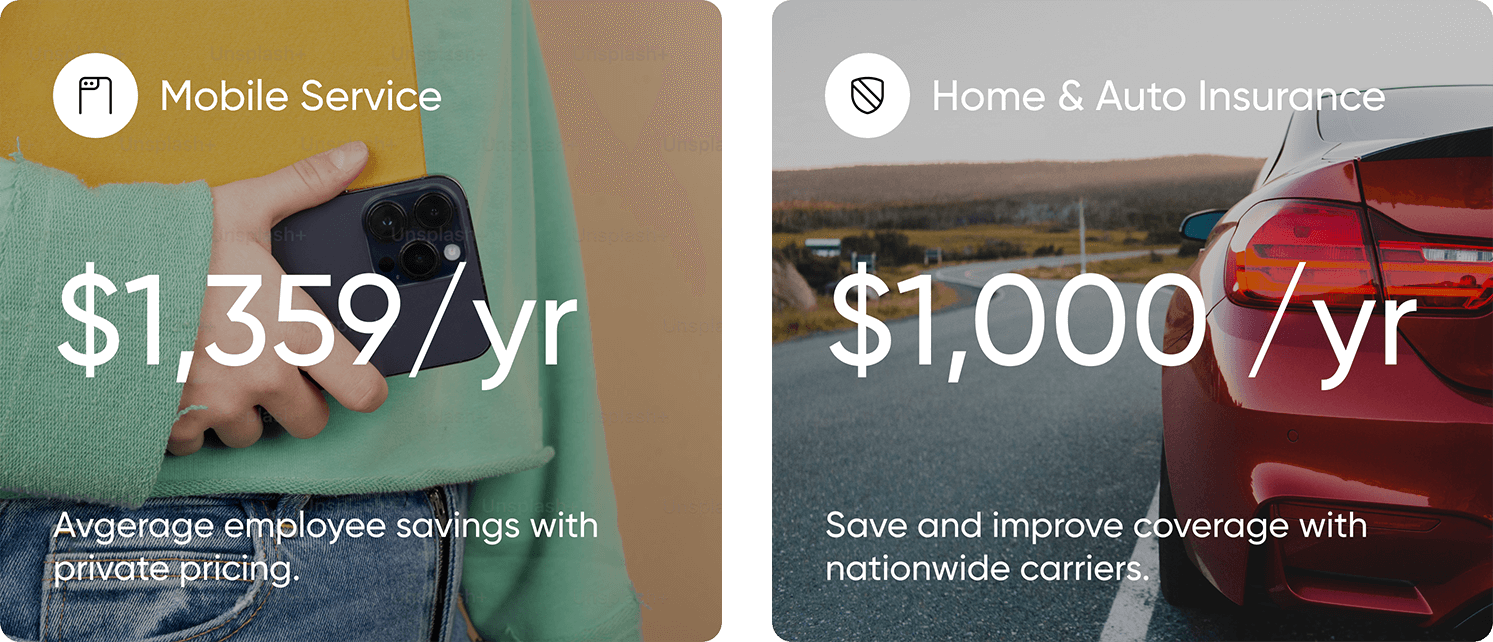
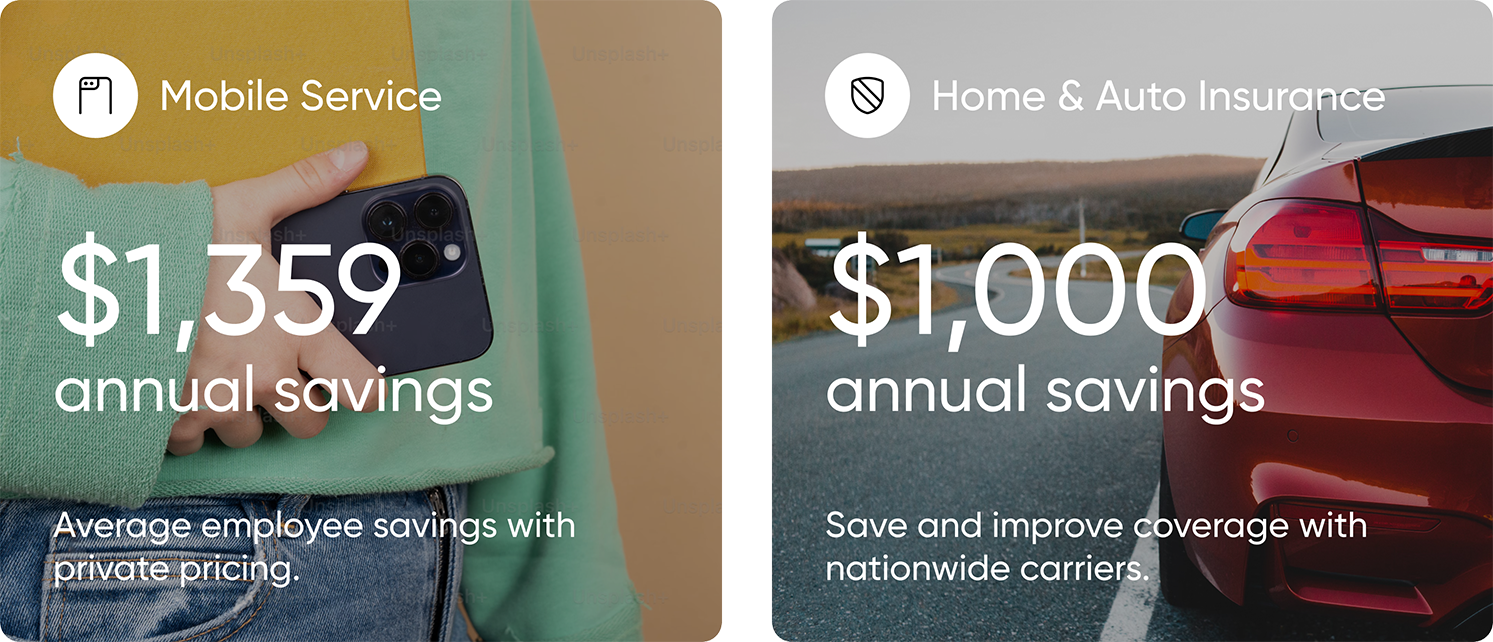
Updated relaunch email

diff --git a/public/templates/relaunch1/formatted.html b/public/templates/relaunch1/formatted.html
@@ -2,9 +2,6 @@
 <div style="max-width: 100%; font-family: Arial, sans-serif; line-height: 1.6; color: #000; padding: 10px 20px 20px;">
 
     <!-- Title -->
-    <h2 style="font-size: 20px; font-weight: bold; margin-bottom: 10px;">
-        Compare and Save Employee Pricing on Phone Plans + Insurance
-    </h2>
 
     <!-- Intro -->
     <p>Hi team,</p>
@@ -14,11 +11,18 @@
     <p>
         Many of you have already enrolled in Previ for employee pricing on wireless plans. Now, {{employerName}} employees can also unlock exclusive savings on home and auto insurance—through the major carriers and providers.
     </p>
+    <br>
+    <hr style="width: 80%; height: 0.5px; background-color: gray; border: none;">
+    <!-- The Drop Section -->
+    <br>
+    <h2 style="font-size: 20px; font-weight: bold; margin-bottom: 10px;">
+        Compare and Save Employee Pricing on Phone Plans + Insurance
+    </h2>
 
     <!-- Savings Image (Linked to Enrollment) -->
     <div style="text-align: center; margin: 20px 0;">
         <a href="{{enrollmentLink}}" target="_blank">
-            <img src="/images/wireless_insurance_savings.png" alt="Wireless and Insurance Savings" style="max-width: 100%; height: auto; border-radius: 5px;" />
+            <img src="/images/wireless_insurance_savings_small2.png" alt="Wireless and Insurance Savings" style="max-width: 100%; height: auto; border-radius: 5px;" />
         </a>
     </div>
 
@@ -26,15 +30,19 @@
     <p>
         We have a limited rollout period for employees to waive their annual enrollment fee. Employees can now use Previ’s Bill Compare Tool to see personalized savings. By completing a bill comparison, they will cover your first-year enrollment fee ($99).
     </p>
+    <br>
+    <hr style="width: 80%; height: 0.5px; background-color: gray; border: none;">
+    <br>
     <p>
-        To lock in free enrollment during the rollout period:
+        <strong>To lock in free enrollment during the rollout period:</strong>
     </p>
-    <ul>
-        <li><strong>For wireless:</strong> Upload your phone bill.</li>
-        <li><strong>For insurance:</strong> Upload your home or auto policy.</li>
-    </ul>
+    <ol>
+        <li><strong>Use {{employerName}} Access Link:</strong> <a href="{{enrollmentLink}}">previ.com/access/{{code}}</a></li>
+        <li><strong>Test drive new Bill Compare Tool:</strong> Upload either your <em>Phone Bill</em> or <em>Home / Auto Policy</em>.</li>
+        <li><strong>Lock in waived enrollment:</strong> And see exactly how much you'll save through our employee pricing.</li>
+    </ol>
     <p>
-        Previ will compare your current rate to <strong>private employee pricing</strong> and show you available options. This opportunity is part of the current <strong>enrollment period</strong>, so be sure to explore your options while it’s available.
+        Previ will compare your current rate to private employee pricing and show you available options. This opportunity is part of the current enrollment period, so be sure to explore your options while it’s available.
     </p>
 
     <!-- CTA Section with Image Button -->
@@ -44,36 +52,26 @@
             <img src="/images/button_compare_employee_prices_small.png" alt="Compare Employee Prices" style="max-width: 100%; height: auto; border-radius: 5px; border: none;" />
         </a>
         <p style="font-size: 14px; font-style: italic; color: #555; text-align: center;">
-            This benefit is exclusive to {{employerName}} employees and accessible only through the private link provided. You are welcome to enroll up to 10 lines for your household, but please do not share your access outside of our team.
+            This benefit is exclusive to {{employerName}} employees and accessible only through the private links provided. You are welcome to enroll up to 10 phone lines for your household, but please do not share your access outside of our team.
         </p>
     </div>
-
-    <!-- Disclaimer -->
-
-
+    <br>
+    <hr style="width: 80%; height: 0.5px; background-color: gray; border: none;">
     <!-- The Drop Section -->
-
-    <br>----<br>
+    <br>
     <p>
-        While you’re there, you’ll also get access to <em>The Drop</em> where this month Pura is sharing their employee discounts, allowing {{employerName}} employees to shop like they work for the company.
+        While you’re there, you’ll also get access to <em>The Drop</em> where this month Pura is sharing their employee discounts with {{employerName}} employees. <strong>Through April, you can shop Pura products at their employee prices (40% lower than MSRP.)</strong>
     </p>
-    <p style="font-size: 14px; font-style: italic; color: #555; text-align: center;">
-        [NEED PURA IMAGE BELOW]
-    </p>
-    <table style="width: 100%; border-collapse: collapse; margin: 20px 0;">
-        <thead>
-        <tr>
-            <th style="text-align: left; border-bottom: 2px solid #ddd; padding-bottom: 8px;">The Drop - Grand Opening</th>
-        </tr>
-        </thead>
-        <tbody>
-        <tr>
-            <td style="padding-top: 8px;">Shop like an employee at the brands you love.</td>
-        </tr>
-        <tr>
-            <td style="padding-top: 8px;"><strong>This month: Pura</strong></td>
-        </tr>
-        </tbody>
-    </table>
-
+    <div style="text-align: center; margin: 20px 0;">
+        <a href="{{enrollmentLink}}" target="_blank">
+            <img src="/images/pura_the_drop.png" alt="Wireless and Insurance Savings" style="max-width: 100%; height: auto; border-radius: 5px;" />
+        </a>
+    </div>
+    <br>
+    <hr style="width: 80%; height: 0.5px; background-color: gray; border: none;">
+    <!-- The Drop Section -->
+    <br>
+    <p>If you have any questions or personal assistance enrolling in any of our Employee Pricing Benefits, Previ has set up a concierge line for us at <a href="tel:+18014370620">(801) 437-0620</a>.</p>
+    <p>Thank you,</p>
+    <strong>{{employerName}} Benefits Team</strong>
 </div>
